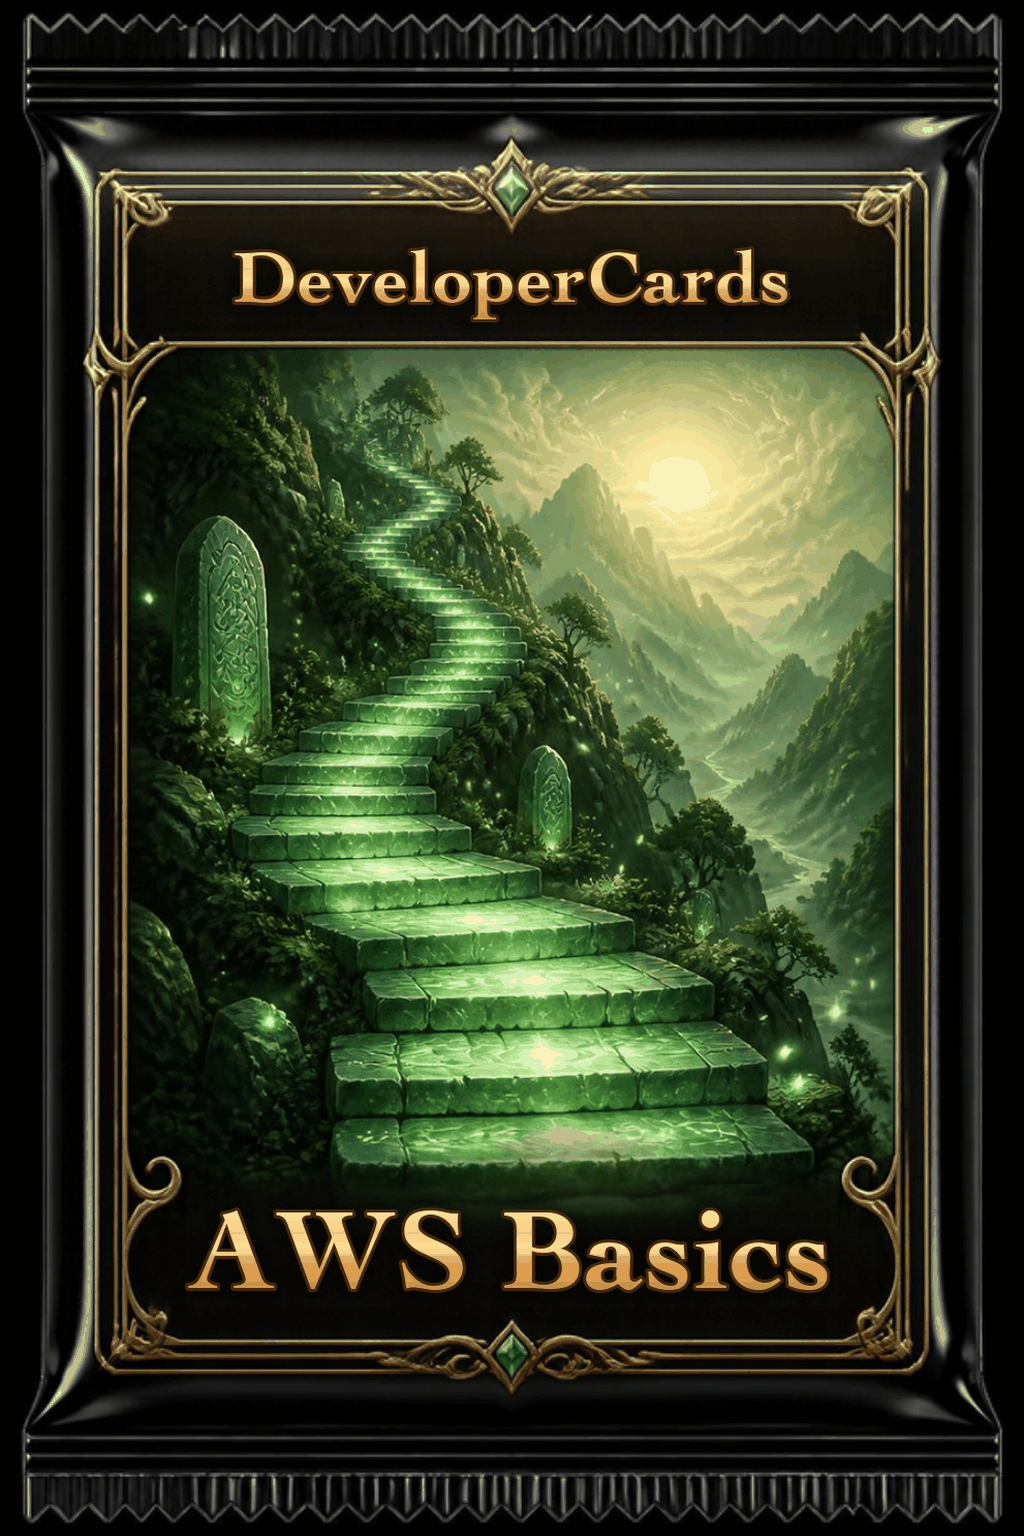
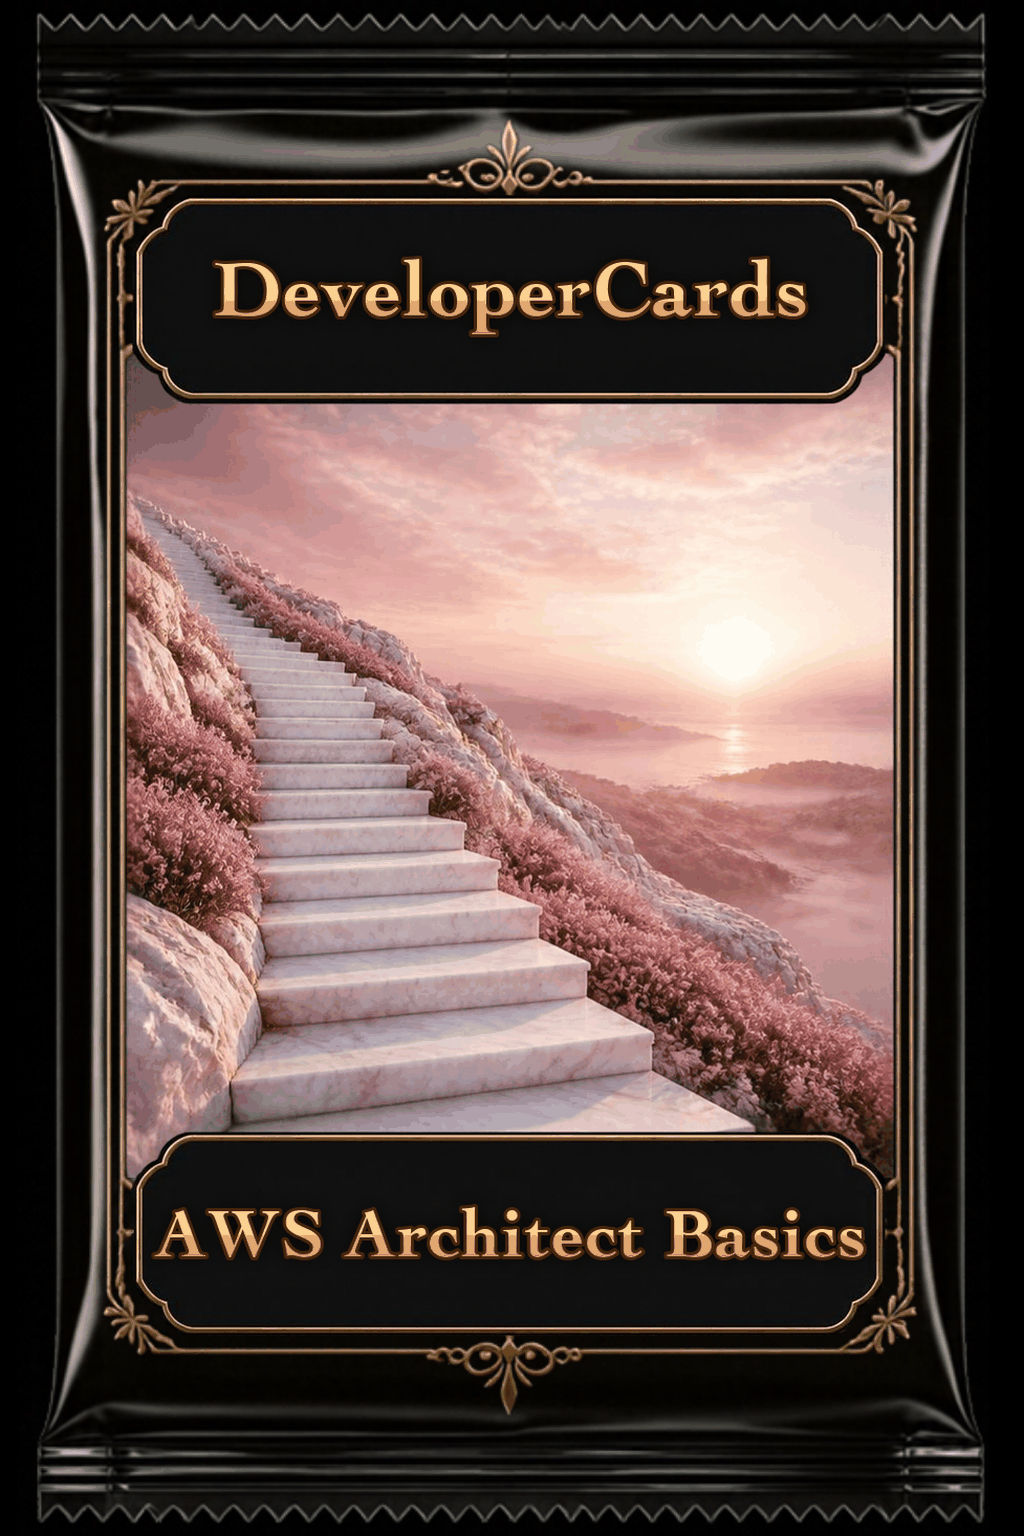
mobile: AWS Architect Basics - new name and a white-and-pink sunrise cover
Owner (2026-10-18): call the first pack "AWS Architect Basics" (beside "AWS
Associate Architect"), and redo its cover in white and pink with a realistic
sunrise, keeping the stairway but not in green.

- Name: deckShortTitle, the goal choice ("AWS Architect Basics (Chinese)"),
  the Help FAQ and comments.
- Cover: Canva AI design DAHYTD5y3p8 (white marble steps climbing a
  pink-heather hillside to a blush-pink dawn), generated with empty lettering
  panels. finish_canva_covers.py letters DeveloperCards and the longer deck
  name (size fitted to the panel) in Cochin Bold, crops and quantises (583 KB).
- Card back: Canva's AI quota is used up, so the jade back (DAHYS_3p_n0) is
  recoloured locally by rose_back(): green velvet to pale rose, the medallion's
  sunrise and steps to a white-pink glow, gold untouched; the baked-in
  "AWS Basics" is replaced with plain velvet and the new name lettered (197 KB).
- Palette 6 resampled from the new cover (blush stops, cream ring).
- README provenance and LICENSE-ASSETS rows updated.

typecheck, 1928 unit and 634 integration tests pass.

diff --git a/mobile/tests/integration/home-pack-carousel.spec.tsx b/mobile/tests/integration/home-pack-carousel.spec.tsx
@@ -311,7 +311,7 @@ describe('HomeScreen cover carousel', () => {
     const tree = await renderHome();
     scrollToMock.mockClear();
     expect(featuredTitle(tree)).toBe('AWS Fundamentals');
-    expect(textOf(tree, 'home-pack-caption')).toBe('AWS Basics');
+    expect(textOf(tree, 'home-pack-caption')).toBe('AWS Architect Basics');
     const loadsBefore = vi.mocked(loadHomeDeckSummaries).mock.calls.length;
     setActiveDeckSlugMock.mockClear();
 
@@ -381,7 +381,7 @@ describe('HomeScreen cover carousel', () => {
 
     expect(pageSlugs(tree)).toEqual([...DECK_ORDER]);
     expect(dots(tree).map((node) => node.props.accessibilityLabel)).toEqual([
-      'AWS Basics pack — 1 due',
+      'AWS Architect Basics pack — 1 due',
       'AWS SAA-C03 pack — 4 due',
       'Claude CCDV-F pack — Ready',
     ]);
@@ -453,7 +453,7 @@ describe('HomeScreen cover carousel', () => {
     scrollToMock.mockClear();
     expect(featured(tree).props.accessibilityRole).toBe('button');
     expect(featured(tree).props.accessibilityActions).toEqual([{ name: 'nextPack', label: 'Next pack' }]);
-    expect(featured(tree).props.accessibilityValue).toEqual({ text: 'AWS Basics, 1 of 3' });
+    expect(featured(tree).props.accessibilityValue).toEqual({ text: 'AWS Architect Basics, 1 of 3' });
     setActiveDeckSlugMock.mockClear();
 
     await act(async () => {
@@ -502,7 +502,7 @@ describe('HomeScreen cover carousel', () => {
 
     // The current pack's dot still selects (and persists) it; nothing changed, so nothing is announced.
     setActiveDeckSlugMock.mockClear();
-    await press(dot(tree, 'AWS Basics'));
+    await press(dot(tree, 'AWS Architect Basics'));
     expect(setActiveDeckSlugMock.mock.calls).toEqual([['aws-saa-fundamentals']]);
     expect(announceMock).not.toHaveBeenCalled();
     expect(scrollToMock).not.toHaveBeenCalled();
@@ -522,12 +522,12 @@ describe('HomeScreen cover carousel', () => {
     setActiveDeckSlugMock.mockClear();
     scrollToMock.mockClear();
 
-    // From AWS Basics, a 375-pt page scroll would round to Claude and skip SAA-C03.
+    // From AWS Architect Basics, a 375-pt page scroll would round to Claude and skip SAA-C03.
     await swipeEnd(tree, 375);
     expect(setActiveDeckSlugMock.mock.calls).toEqual([['aws-saa-c03']]);
     expect(scrollToMock).toHaveBeenLastCalledWith({ x: HOME_PACK_PAGE_WIDTH, y: 0, animated: false });
 
-    // Back the other way, stopping 41 pt off the first page: settles on AWS Basics, centred.
+    // Back the other way, stopping 41 pt off the first page: settles on AWS Architect Basics, centred.
     await act(async () => {
       tree.root.findByProps({ testID: 'home-pack-carousel' }).props.onScrollBeginDrag();
     });
@@ -599,7 +599,7 @@ describe('HomeScreen cover carousel', () => {
     expect(Alert.alert).not.toHaveBeenCalled();
 
     // The dot does the same.
-    await press(dot(tree, 'AWS Basics'));
+    await press(dot(tree, 'AWS Architect Basics'));
     expect(setActiveDeckSlugMock.mock.calls).toEqual([['aws-saa-fundamentals']]);
     await press(dot(tree, 'Claude CCDV-F'));
     expect(setActiveDeckSlugMock.mock.calls).toEqual([['aws-saa-fundamentals']]);
@@ -629,7 +629,7 @@ describe('HomeScreen cover carousel', () => {
 
   it('counts only the selected pack in the hero headline and the header line', async () => {
     const tree = await renderHome();
-    // AWS Basics has 1 due; SAA-C03 has 4; the three packs together have 5.
+    // AWS Architect Basics has 1 due; SAA-C03 has 4; the three packs together have 5.
     expect(textOf(tree, 'home-hero-title')).toBe('1 card waiting');
     expect(textOf(tree, 'home-header-subtitle')).toBe('1 card waiting today');
 

diff --git a/mobile/src/content/faq.ts b/mobile/src/content/faq.ts
@@ -32,7 +32,7 @@ export const FAQ_LIST: readonly FaqEntry[] = [
   },
   {
     q: 'What do I study?',
-    a: 'Three free decks: AWS fundamentals (the basics behind SAA-C03, in Chinese), AWS Associate Architect (SAA-C03, in English) and Claude Developer Foundations (CCDV-F across 8 domains, in English). Multiple-choice cards in the SAA-C03 deck explain every wrong option. Reviews are scheduled with FSRS, the open-source spaced-repetition algorithm, never more than 90 days out, and a card is Mastered once its next review is 15 or more days away. The app is iOS only.',
+    a: 'Three free decks: AWS Architect Basics (the basics behind SAA-C03, in Chinese), AWS Associate Architect (SAA-C03, in English) and Claude Developer Foundations (CCDV-F across 8 domains, in English). Multiple-choice cards in the SAA-C03 deck explain every wrong option. Reviews are scheduled with FSRS, the open-source spaced-repetition algorithm, never more than 90 days out, and a card is Mastered once its next review is 15 or more days away. The app is iOS only.',
   },
   {
     q: 'Why is a card locked in the Library?',
@@ -40,7 +40,7 @@ export const FAQ_LIST: readonly FaqEntry[] = [
   },
   {
     q: 'Does it work offline? Do I need an account?',
-    a: 'The first cards of the SAA-C03 and Claude decks are in the app, so a first lesson on either works offline; AWS fundamentals downloads the first time your phone is online. The full deck downloads when your phone is online, and after that you can study offline. An account is optional: signing in adds cloud backup, Report a card and the Premium subscription. Premium is for future premium decks; there is nothing premium to unlock yet.',
+    a: 'The first cards of the SAA-C03 and Claude decks are in the app, so a first lesson on either works offline; AWS Architect Basics downloads the first time your phone is online. The full deck downloads when your phone is online, and after that you can study offline. An account is optional: signing in adds cloud backup, Report a card and the Premium subscription. Premium is for future premium decks; there is nothing premium to unlock yet.',
   },
   {
     q: 'How are the cards made?',

diff --git a/mobile/src/theme/packArt.ts b/mobile/src/theme/packArt.ts
@@ -77,18 +77,19 @@ const PALETTES: readonly PackPalette[] = [
     badgeBg: '#251628',
     badgeInk: '#FFD6A0',
   },
-  // 6 — jade stairway to a pale-gold sunrise (AWS Basics deck, 2026-10-18
-  // AWS Basics cover). Same method as 5: forest and moss stops from a
-  // median-cut of assets/packs/aws-basics.png, the glow stop is the lit jade
-  // of the steps, the ring and badge ink are the sunrise gold. Kept far from
-  // the aws (orange) and ai (teal) palettes so the two AWS packs never match.
+  // 6 — white marble steps to a blush-pink dawn (AWS Architect Basics deck,
+  // 2026-10-18 cover). Same method as 5: rose and blush stops from a
+  // median-cut of the scene in assets/packs/aws-basics.png, the glow stop is
+  // the sunlit pink of the sky, the ring and badge ink are the dawn's cream.
+  // Kept far from the aws (orange) and claude (plum and coral) palettes so the
+  // two AWS packs never match.
   {
-    cover: ['#365129', '#5B7844', '#83C251', '#213216'] as const,
-    halo: 'rgba(131,194,81,0.30)',
-    ring: 'rgba(244,226,153,0.55)',
+    cover: ['#A16D6B', '#C99390', '#E5B3AB', '#5A352E'] as const,
+    halo: 'rgba(229,179,171,0.30)',
+    ring: 'rgba(250,228,214,0.55)',
     titleInk: '#FFFFFF',
-    badgeBg: '#213216',
-    badgeInk: '#F4E299',
+    badgeBg: '#5A352E',
+    badgeInk: '#FAE4D6',
   },
 ];
 

diff --git a/mobile/tests/unit/faqThreeDecks.test.ts b/mobile/tests/unit/faqThreeDecks.test.ts
@@ -10,12 +10,12 @@ import { GOAL_CHOICES } from '../../src/features/gacha/audience/goalChoices';
 
 // How each shown deck is named in the two answers that list decks.
 const STUDY_NAME: Record<string, string> = {
-  'aws-saa-fundamentals': 'AWS fundamentals',
+  'aws-saa-fundamentals': 'AWS Architect Basics',
   'aws-saa-c03': 'AWS Associate Architect',
   'claude-ccdv-f': 'Claude Developer Foundations',
 };
 const OFFLINE_NAME: Record<string, string> = {
-  'aws-saa-fundamentals': 'AWS fundamentals',
+  'aws-saa-fundamentals': 'AWS Architect Basics',
   'aws-saa-c03': 'SAA-C03',
   'claude-ccdv-f': 'Claude',
 };
@@ -40,7 +40,7 @@ describe('Help FAQ, 2026-10-14 three decks', () => {
     const positions = DECK_ORDER.map((slug) => a.indexOf(STUDY_NAME[slug]));
     for (const position of positions) expect(position).toBeGreaterThanOrEqual(0);
     expect([...positions].sort((x, y) => x - y)).toEqual(positions);
-    expect(a).toContain('AWS fundamentals (the basics behind SAA-C03, in Chinese)');
+    expect(a).toContain('AWS Architect Basics (the basics behind SAA-C03, in Chinese)');
   });
 
   it('promises an offline first lesson only for the decks that ship starter cards', () => {

diff --git a/mobile/src/features/gacha/audience/goalChoices.ts b/mobile/src/features/gacha/audience/goalChoices.ts
@@ -13,13 +13,13 @@ export type GoalChoice = {
 };
 
 /**
- * Every goal deck, in the 2026-10-14 three-decks order (owner): AWS fundamentals (the Chinese
+ * Every goal deck, in the 2026-10-14 three-decks order (owner): AWS Architect Basics (the Chinese
  * foundation cards), SAA-C03, Claude CCDV-F. A deck in content/hiddenDecks.ts HIDDEN_DECK_SLUGS
  * (csharp-basics for now) keeps its entry here but is not offered: taking it off that list offers
  * it again, with its label, in onboarding and Settings › Study goal.
  */
 const ALL_GOAL_CHOICES: readonly GoalChoice[] = [
-  { deckSlug: 'aws-saa-fundamentals', label: 'AWS fundamentals (Chinese)', highlighted: true },
+  { deckSlug: 'aws-saa-fundamentals', label: 'AWS Architect Basics (Chinese)', highlighted: true },
   { deckSlug: 'aws-saa-c03', label: 'AWS Solutions Architect (SAA-C03)', highlighted: false },
   { deckSlug: 'claude-ccdv-f', label: 'Claude Developer (CCDV-F)', highlighted: false },
   { deckSlug: 'csharp-basics', label: '.NET interview questions', highlighted: false },

diff --git a/mobile/tests/unit/packArt.test.ts b/mobile/tests/unit/packArt.test.ts
@@ -155,13 +155,13 @@ describe('packArt — AWS Basics deck (aws-saa-fundamentals)', () => {
     expect(back).not.toBe(DEFAULT_CARD_BACK);
   });
 
-  it('gives aws-saa-fundamentals the jade palette sampled from its cover', () => {
+  it('gives aws-saa-fundamentals the blush-pink palette sampled from its cover', () => {
     const palette = packPaletteFromSlug('aws-saa-fundamentals');
     expect(palette).toEqual(packPaletteFromSlug('aws-basics'));
     expect(packPaletteFromSlug('AWS-SAA-FUNDAMENTALS')).toEqual(palette);
-    // Jade glow stop sampled from aws-basics.png — proves index 6 is wired, not a
+    // Blush glow stop sampled from aws-basics.png — proves index 6 is wired, not a
     // hash-fallback collision with one of the older palettes.
-    expect(palette.cover[2]).toBe('#83C251');
+    expect(palette.cover[2]).toBe('#E5B3AB');
     for (const other of ['aws', 'aws-saa-c03', 'default', 'cloud', 'csharp', 'claude', 'ai', 'premium-deck']) {
       expect(palette).not.toEqual(packPaletteFromSlug(other));
     }

diff --git a/mobile/tests/unit/goalChoices.test.ts b/mobile/tests/unit/goalChoices.test.ts
@@ -15,11 +15,11 @@ import {
 const NOW = new Date(2026, 9, 2, 15, 0, 0).getTime();
 
 describe('goal choices (R22 contract §3)', () => {
-  it('offers exactly the three decks, AWS fundamentals first, highlighted and the default', () => {
+  it('offers exactly the three decks, AWS Architect Basics first, highlighted and the default', () => {
     // 2026-10-14 three decks: fundamentals, SAA-C03, Claude; csharp-basics is hidden, so not offered.
     expect(GOAL_CHOICES.map((c) => c.deckSlug)).toEqual(['aws-saa-fundamentals', 'aws-saa-c03', 'claude-ccdv-f']);
     expect(GOAL_CHOICES.map((c) => c.label)).toEqual([
-      'AWS fundamentals (Chinese)',
+      'AWS Architect Basics (Chinese)',
       'AWS Solutions Architect (SAA-C03)',
       'Claude Developer (CCDV-F)',
     ]);

diff --git a/mobile/tests/integration/more.screen.test.tsx b/mobile/tests/integration/more.screen.test.tsx
@@ -355,7 +355,7 @@ describe('Me tab · MoreScreen + Profile + Help real copy', () => {
     expect(blob).toContain('a rare card is guaranteed');
     // 2026-10-14 three decks: only SAA-C03 and Claude ship starter cards; fundamentals needs the network.
     expect(blob).toContain(
-      'The first cards of the SAA-C03 and Claude decks are in the app, so a first lesson on either works offline; AWS fundamentals downloads the first time your phone is online.',
+      'The first cards of the SAA-C03 and Claude decks are in the app, so a first lesson on either works offline; AWS Architect Basics downloads the first time your phone is online.',
     );
     expect(blob).not.toMatch(/first cards of each deck/i);
     expect(blob).toContain('official documentation');

diff --git a/mobile/tests/unit/studyGoalRow.test.tsx b/mobile/tests/unit/studyGoalRow.test.tsx
@@ -83,7 +83,7 @@ const stored = () => JSON.parse(asyncStore.get(STUDY_GOAL_KEY) ?? 'null');
 describe('study goal editor helpers', () => {
   it('labels decks like onboarding and keeps an unknown slug as itself', () => {
     expect(goalDeckLabel('aws-saa-c03')).toBe('AWS Solutions Architect (SAA-C03)');
-    expect(goalDeckLabel('aws-saa-fundamentals')).toBe('AWS fundamentals (Chinese)');
+    expect(goalDeckLabel('aws-saa-fundamentals')).toBe('AWS Architect Basics (Chinese)');
     // Hidden since 2026-10-14 (a stored csharp-basics goal reads as no goal), but the label is kept.
     expect(goalDeckLabel('csharp-basics')).toBe('.NET interview questions');
     expect(goalDeckLabel('some-future-deck')).toBe('some-future-deck');

diff --git a/mobile/tests/unit/deckShortTitle.spec.ts b/mobile/tests/unit/deckShortTitle.spec.ts
@@ -4,7 +4,7 @@ import { deckShortTitle } from '../../src/content/deckShortTitle';
 describe('deckShortTitle', () => {
   it('maps the three live decks to the names that fit a 60–72pt tile', () => {
     expect(deckShortTitle('aws-saa-c03', 'AWS Associate Architect')).toBe('AWS SAA-C03');
-    expect(deckShortTitle('aws-saa-fundamentals', 'AWS SAA Fundamentals')).toBe('AWS Basics');
+    expect(deckShortTitle('aws-saa-fundamentals', 'AWS SAA Fundamentals')).toBe('AWS Architect Basics');
     expect(deckShortTitle('claude-ccdv-f', 'Claude Developer Foundations (CCDV-F)')).toBe('Claude CCDV-F');
     expect(deckShortTitle('csharp-basics', 'C# / .NET')).toBe('C# / .NET');
   });

diff --git a/mobile/src/screens/WelcomeScreen.tsx b/mobile/src/screens/WelcomeScreen.tsx
@@ -25,7 +25,7 @@ type Props = NativeStackScreenProps<RootStackParamList, 'Welcome'>;
 
 // Welcome v3 — single page. Drops the 3-swipe carousel + internal jargon
 // ("v6", "phase A"). New users see one value proposition + the featured
-// pack (the first goal choice: AWS fundamentals since 2026-10-14), and reach the goal step
+// pack (the first goal choice: AWS Architect Basics since 2026-10-14), and reach the goal step
 // ("What do you want to learn?") in one tap.
 export function WelcomeScreen({ navigation }: Props) {
   const featuredSlug = DEFAULT_GOAL_DECK_SLUG;

diff --git a/mobile/src/screens/HomeScreen.tsx b/mobile/src/screens/HomeScreen.tsx
@@ -93,7 +93,7 @@ type HomeState = {
   vm: HomeViewModel;
 };
 // 2026-10-18 home carousel: one cover page per pack row. `status` is what the pack's dot reads
-// (VoiceOver: "AWS Basics pack — Ready"), the same words the old YOUR PACKS tiles used.
+// (VoiceOver: "AWS Architect Basics pack — Ready"), the same words the old YOUR PACKS tiles used.
 function toPackPage(row: HomeDeckVM): HomePackPage {
   const slug = row.deck.slug;
   const dueCount = (row.deck as any)?.dueCount ?? (row.deck as any)?.dueToday ?? 0;
